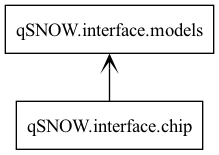
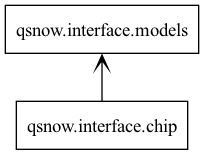
restructure project subdirectories into source and add pyproject.toml

diff --git a/src/qsnow/interface/chip.py b/src/qsnow/interface/chip.py
@@ -17,7 +17,7 @@ from scipy.stats import truncnorm
 from .grid import Grid
 from .models import Coord, NoiseProfile, Qubit, Status, ShiftFunction, TileTag, CSSType, _DEFAULT_CSSTYPE, _DEFAULT_STATUS
 from .rules import Ruleset, InjectionRule, ChannelRule
-from visualize import VisualizationStyle, default_style, visualize
+from qsnow.visualize import VisualizationStyle, default_style, visualize
 
 class Chip(Grid):
     """

diff --git a/src/qsnow/interface/grid.py b/src/qsnow/interface/grid.py
@@ -11,7 +11,7 @@ from shapely.strtree import STRtree
 from stim import Circuit, CircuitInstruction
 
 from .models import Coord, NoiseProfile, Qubit, Status, ShiftFunction, TileTag, CSSType
-from visualize import VisualizationStyle, default_style, visualize
+from qsnow.visualize import VisualizationStyle, default_style, visualize
 
 class Grid:
     """

diff --git a/src/qsnow/visualize/visualize.py b/src/qsnow/visualize/visualize.py
@@ -1,7 +1,7 @@
 from dataclasses import dataclass
 from typing import TYPE_CHECKING, Callable, Dict, List, Optional, Tuple, Union, Any
 
-from interface.models import Qubit, Status, TileTag, CSSType
+from qsnow.interface.models import Qubit, Status, TileTag, CSSType
 
 if TYPE_CHECKING:
     from interface.chip import Chip, Grid

diff --git a/src/qsnow/experiments/squarepacking/game.py b/src/qsnow/experiments/squarepacking/game.py
@@ -1,7 +1,7 @@
 from typing import Dict, Any, List, Optional
 
-from interface.models import Qubit, Coord
-from interface.chip import LogicalTile, Chip
+from qsnow.interface.models import Qubit, Coord
+from qsnow.interface.chip import LogicalTile, Chip
 
 # WIP
 class SquarePackingExp():
